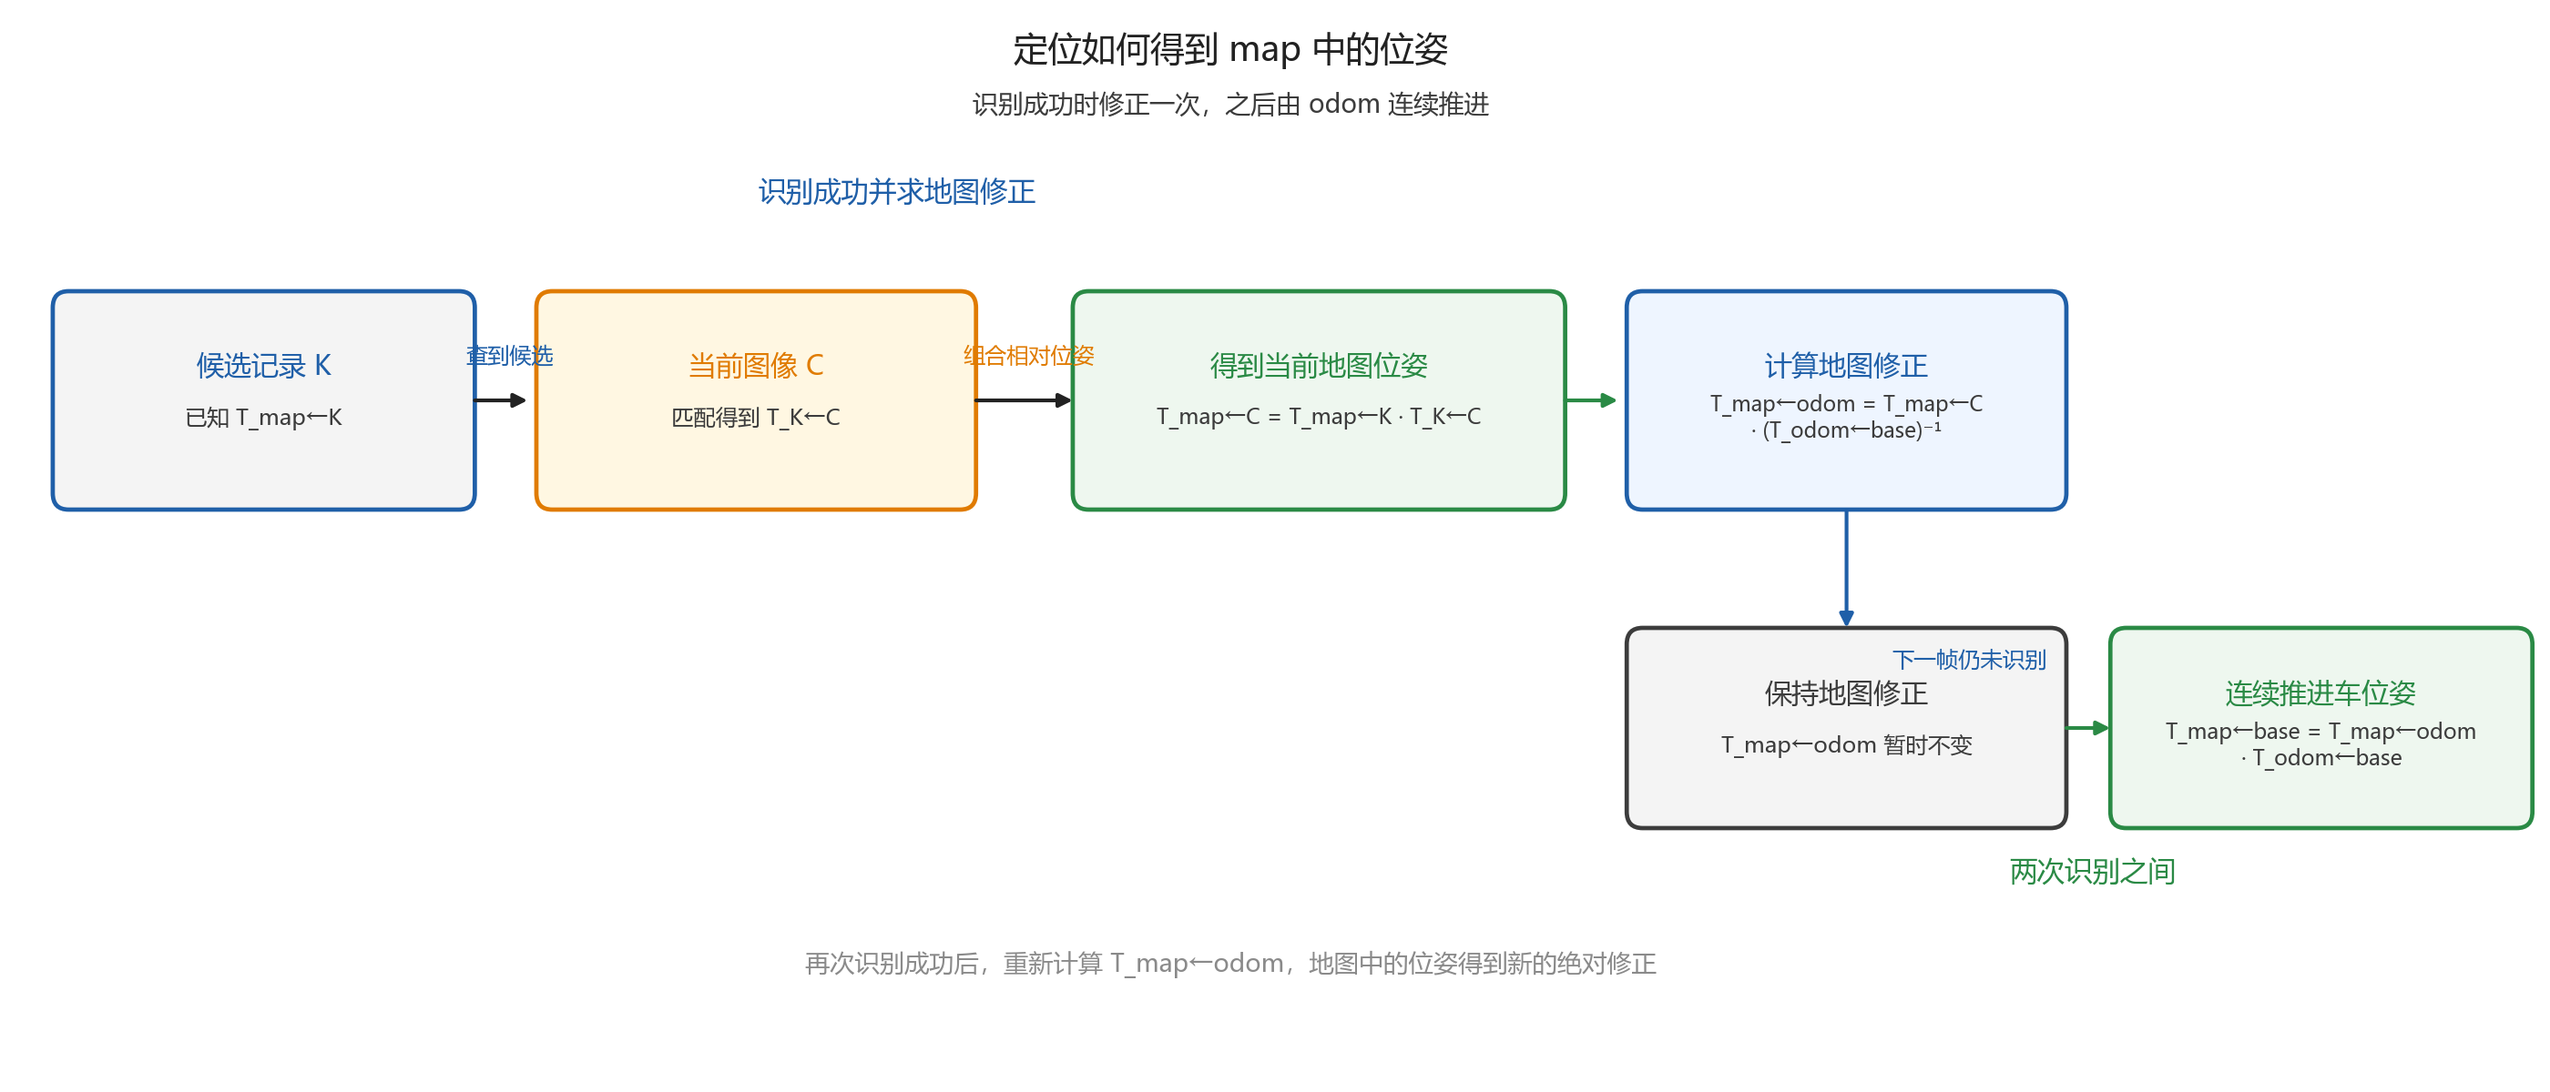
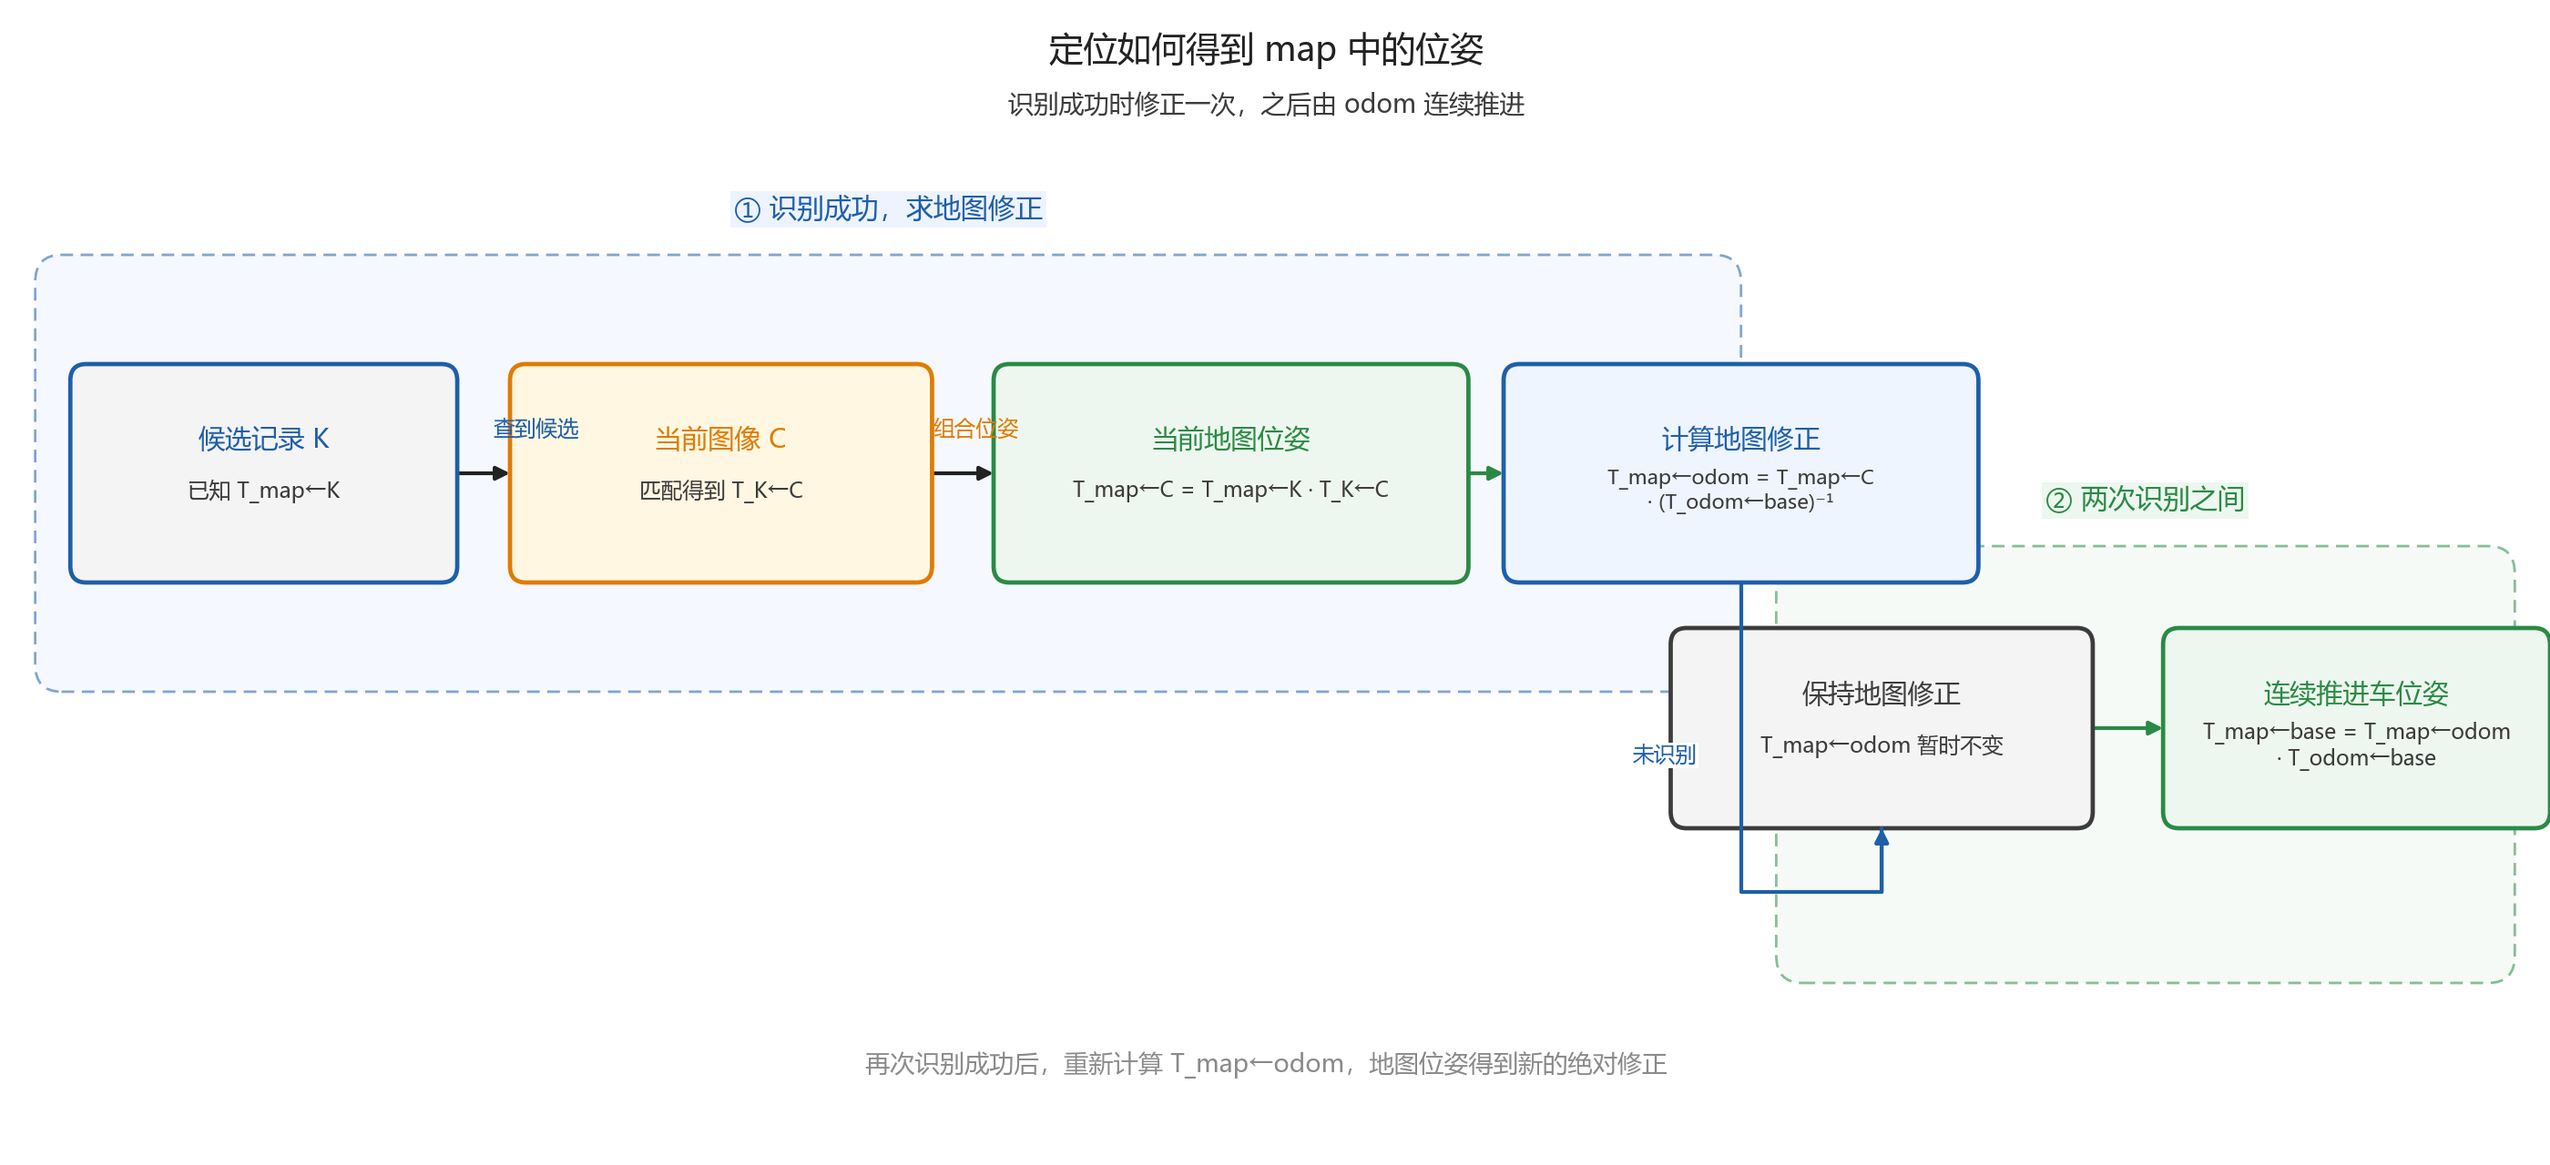
docs: improve clarity of sections 4.3 and 5–7 in visual runtime
- Redesign three figures: loop-closure-process, localization-update,
  pose-graph-model with cleaner layouts and symbol legends
- Rewrite 4.3.1 visual-dictionary explanation: lead with intuition
  before mechanism, move example inline with abstraction
- Convert 4.2 three-step projection to numbered list with bold titles
- Move localization diagram before the matrix derivation in section 5;
  add two-sentence intuition lead-in
- Fix all first-use-before-definition issues: RTAB-Map and Nav2 deferred
  to their introducing sections; overview uses generic labels
- Clarify OccupancyGrid.data coordinate mismatch paragraph
- Add Nav2 definition at first use in section 6

diff --git a/docs/06-sensors-navigation/38-visual-runtime.md b/docs/06-sensors-navigation/38-visual-runtime.md
@@ -15,11 +15,11 @@ status: complete
 
 图像、车身和场地各有自己的坐标系。坐标变换把它们接起来，使相机看到的点能够换算到场地坐标系中（第 3 节）。
 
-建图时，RTAB-Map 沿途保存图像、特征和车的位置，形成建图记录。本章把这种记录称为地点记录，再利用记录中的深度图像生成导航所需的占用栅格，即记录地面区域可通行状态的二维地图（第 4 节）。
+建图时，建图算法沿途保存图像、特征和车的位置，形成建图记录。本章把这种记录称为地点记录，再利用记录中的深度图像生成导航所需的占用栅格，即记录地面区域可通行状态的二维地图（第 4 节）。
 
-建图结束后，RTAB-Map 将当前红外图像与已有地图比较，确定车的位置和朝向（第 5 节）。
+建图结束后，建图算法将当前红外图像与已有地图比较，确定车的位置和朝向（第 5 节）。
 
-导航框架 Nav2 根据地图规划到目标点的路径（第 6 节），再沿路径计算速度并交给底盘执行（第 7 节）。
+导航框架根据地图规划到目标点的路径（第 6 节），再沿路径计算速度并交给底盘执行（第 7 节）。
 
 ![过程概要。上行从图像采集到运动融合，下行从建图与定位到底盘执行。粗框浅底为本项目编写的节点](diagrams/vision-runtime-overview.svg)
 
@@ -30,7 +30,7 @@ status: complete
 
 # 1. 采集红外图像和深度图像
 
-RealSense 驱动由左右红外图像算出深度图像，并让红外投射器逐帧交替开关。配对节点辨认每一帧的投射器状态，取无散斑的红外图像和相邻一帧的深度图像。RTAB-Map 的同步节点再把它们合成一条消息。本节依次说明深度图像从何而来、为什么要交替开关投射器，以及两幅图像怎样合成消息。
+RealSense 驱动由左右红外图像算出深度图像，并让红外投射器逐帧交替开关。配对节点辨认每一帧的投射器状态，取无散斑的红外图像和相邻一帧的深度图像。建图算法的同步节点再把它们合成一条消息。本节依次说明深度图像从何而来、为什么要交替开关投射器，以及两幅图像怎样合成消息。
 
 ## 1.1 由左右红外图像得到深度图像
 
@@ -603,11 +603,13 @@ record:
 
 占用栅格是一张固定分辨率的二维地图。每个格子对应 `map` 地面上的一小块区域，状态通常记为三种值：$0$ 表示已确认可以通行，$100$ 表示被障碍占用，$-1$ 表示还没有足够观测。每条地点记录先产生一张局部占用栅格，局部栅格带有记录拍摄时的车身位姿。RTAB-Map 再把它变换到 `map` 中，与其他记录的局部栅格叠加，形成发布在 `/map` 上的全局占用栅格。因此，地点记录是原始观测和位姿的保存单元，占用栅格是由这些记录计算出来的地图结果。
 
-投影分三步。第一步，由 2.1 的公式把每个像素和距离换成光学坐标系里的点，再经 TF 换到 `base_footprint`。距离不在 $0.20$～$3.5\,\mathrm{m}$ 内的点不用，落在车身本身所占的 $0.5\,\mathrm{m} \times 0.4\,\mathrm{m} \times 0.3\,\mathrm{m}$ 空间里的点也去掉，以免把自己的车头当成障碍。
+投影分三步：
 
-第二步按表面朝向和高度区分地面与障碍。表面法线是垂直于局部表面的方向，算法用它和竖直方向的夹角判断表面是否近似水平。若夹角不超过 $30^\circ$，且高度在 $-0.10$～$0.10\,\mathrm{m}$ 之间，就把点记为地面，所在格子记为空闲。其余高度在 $0.10$～$1.80\,\mathrm{m}$ 之间的点记为障碍，格子记为占用。高于 $1.80\,\mathrm{m}$ 的点超出本车要建立的障碍高度范围，不参与这一层地图。
+1. **换算三维点并过滤范围。** 由 2.1 的公式把每个像素和距离换成光学坐标系里的点，再经 TF 换到 `base_footprint`。距离不在 $0.20$～$3.5\,\mathrm{m}$ 内的点不用，落在车身本身所占的 $0.5\,\mathrm{m} \times 0.4\,\mathrm{m} \times 0.3\,\mathrm{m}$ 空间里的点也去掉，以免把自己的车头当成障碍。
 
-第三步补上视线经过的格子。相机到每个地面点或障碍点之间，视线经过的格子也记为空闲，因为视线能到达说明中途没有障碍。半径 $0.05\,\mathrm{m}$ 内不足 3 个邻点的孤立点当作噪声去掉。
+2. **按朝向和高度区分地面与障碍。** 表面法线是垂直于局部表面的方向，算法用它和竖直方向的夹角判断表面是否近似水平。若夹角不超过 $30^\circ$，且高度在 $-0.10$～$0.10\,\mathrm{m}$ 之间，就把点记为地面，所在格子记为空闲。其余高度在 $0.10$～$1.80\,\mathrm{m}$ 之间的点记为障碍，格子记为占用。高于 $1.80\,\mathrm{m}$ 的点超出本车要建立的障碍高度范围，不参与这一层地图。
+
+3. **补上视线经过的格子。** 相机到每个地面点或障碍点之间，视线经过的格子也记为空闲，因为视线能到达说明中途没有障碍。半径 $0.05\,\mathrm{m}$ 内不足 3 个邻点的孤立点当作噪声去掉。
 
 下图从侧面看这一归类。图中法线箭头表示表面朝向，地面、障碍和不参与本层地图的高度范围分别用不同颜色标出。贴地的一层是地面，往上到 1.80 m 是障碍，再高的不记，相机到障碍之间的地面格子标为空闲。
 
@@ -631,7 +633,7 @@ info:
 data: [ ... ]             # 每格一个数：0 空闲，100 占用，-1 未知
 ```
 
-`data` 按行存放，从格子 $(0, 0)$ 起沿 $x$ 方向写完一行 `width` 个格子，再增加 $y$。图像像素的 $(0, 0)$ 在左上角、行号向下，栅格的 $(0, 0)$ 在左下角、$y$ 向上，两种约定相反。下面用一张 4 列 3 行的栅格展示单元值怎样按行展开为 `data`。
+`data` 按行存放，从格子 $(0, 0)$ 起沿 $x$ 方向写完一行 `width` 个格子，再增加 $y$。这里有一个容易搞错的方向问题：图像像素的 $(0, 0)$ 在左上角，行号向下；而栅格的 $(0, 0)$ 在左下角，$y$ 向上。因此，`data` 里的第 0 个元素对应栅格最底部一行的最左格，而不是左上角。下图用一张 4 列 3 行的栅格说明这一对应关系——左侧按坐标显示格子，右侧展示它们在 `data` 中的排列顺序。
 
 ![占用栅格单元与 OccupancyGrid.data 的对应关系。左侧按坐标显示 4 列 3 行栅格，右侧按 y 从小到大展开数组](./assets/occupancy-grid-data.png)
 
@@ -657,12 +659,13 @@ RViz 把占用栅格和车身画在同一画面里，下图的固定坐标系为
 
 ### 4.3.1 从当前记录找到回环约束
 
-每新增一条地点记录 $R_i$，RTAB-Map 都会用它的红外图像和特征去查找可能的旧记录。查找分为“快速筛选”和“几何确认”两步。
+每新增一条地点记录 $R_i$，RTAB-Map 都会用它的红外图像和特征去查找可能的旧记录。查找分为**快速筛选**和**几何确认**两步：
 
-1. 快速筛选候选记录。为便于查找旧图像，RTAB-Map 维护一张视觉词典。词典中的每一项保存一个代表性的特征描述子和编号，相似的描述子可归到同一项。这个编号称为视觉单词。新记录进来后，系统把其中每个描述子与词典中的项比较，找到最相近的一项，再记下对应的视觉单词编号。词典会随着建图过程逐渐扩充，已有的地点记录则保存各自出现过的编号及其次数。
+1. **快速筛选候选记录。** 逐一比较每对地点记录的特征描述子效率太低。RTAB-Map 维护一张**视觉词典**来加速筛选：词典中的每一项代表一类”相似的描述子”，并分配一个整数编号，称为**视觉单词**。建立词典的过程类似聚类——描述子越相似，越可能被归入同一个编号。
 
-   例如，当前记录得到编号 `[12, 35, 35, 81]`，某条旧记录得到 `[7, 12, 35, 90]`。系统按编号查找含有 `12` 和 `35` 的旧记录，这条旧记录便成为候选，随后根据共有编号的数量和出现频率计算匹配分数。匹配可能性超过 $0.11$ 的候选进入下一步。这个分数只用于缩小查找范围，不能单独证明两条记录确实位于同一地点。
-2. 用几何关系确认候选。对每个候选，系统按 2.3 节的方法匹配特征点，用 PnP 和 RANSAC 求两条记录之间的相对位姿，再用全部匹配检查重投影误差。内点不少于 20 个时，才接受这次候选匹配，并保存两条记录的相对位姿和方差，形成一条回环约束。内点数量不足时，候选被丢弃，当前记录继续等待后续记录提供新的匹配机会。
+   每收到一条新记录，系统把其中每个描述子与词典各项比较，找到最相近的一项，记下对应编号。例如某条新记录得到编号列表 `[12, 35, 35, 81]`，某条旧记录的编号列表是 `[7, 12, 35, 90]`，两者共同出现了编号 `12` 和 `35`。系统按共有编号检索旧记录，共有编号越多、出现频率越高，匹配分数越高。匹配可能性超过 $0.11$ 的旧记录进入下一步。这个分数只用于缩小查找范围，不能单独证明两条记录来自同一地点。词典会随着建图过程逐渐扩充，已有的地点记录则持续更新各自出现过的编号及次数。
+
+2. **用几何关系确认候选。** 对每个候选，系统按 2.3 节的方法匹配特征点，用 PnP 和 RANSAC 求两条记录之间的相对位姿，再用全部匹配检查重投影误差。内点不少于 20 个时，才接受这次候选匹配，并保存两条记录的相对位姿和方差，形成一条回环约束。内点数量不足时，候选被丢弃，当前记录继续等待后续记录提供新的匹配机会。
 
 除了视觉单词检索，RTAB-Map 还会检查 `/odom` 判断为空间接近、时间相隔较久的记录。对这类记录也直接执行几何确认，成功后得到近邻约束。近邻约束和回环约束都表示两条记录之间的相对位姿，区别在于前者由里程计的空间接近关系触发，后者由图像重新认出旧地点触发。
 
@@ -706,9 +709,13 @@ $$
 
 定位的任务是根据当前图像，在已经建立的地图和地点记录中找到车所在的位置，并持续发布车在 `map` 中的位姿。切换到定位时，相机、图像配对与合成、视觉里程计和运动融合仍照常运行。RTAB-Map 读取建图时的数据库，载入地点记录，但不再写入新记录。它还用这些记录重新拼出占用栅格，发布到 `/map`。
 
-定位可以分成一次绝对修正和两次修正之间的连续推进。RTAB-Map 先按 4.3.1 节的视觉单词方法，从数据库中筛选可能对应当前图像的地点记录，再做特征匹配和几何验证。设通过验证的候选记录为 $K$，当前正在处理的图像为 $C$。
+定位可以分成**一次绝对修正**和**两次修正之间的连续推进**两个阶段：识别成功时，用当前图像与数据库中的地点记录比对，得到一次绝对的地图位姿；识别不成功时，保持上次的修正量，依靠 `/odom` 连续推进。下图先把两个阶段的数据流展示出来，后面再说明各步骤的计算。
 
-这里用 $T_{A\leftarrow B}$ 表示把点在坐标系 $B$ 中的坐标换到坐标系 $A$。候选记录在 `map` 中的车身位姿记为 $T_{\mathrm{map}\leftarrow K}$。2.3 节的特征匹配和 PnP 得到两帧之间的相对变换。把它整理成“当前车身坐标换到候选记录坐标”的形式，记为 $T_{K\leftarrow C}$，就可以直接组合出当前车身在 `map` 中的位姿：
+![定位更新过程。识别成功时由候选记录和相对位姿得到当前地图位姿，再计算 map→odom；两次识别之间保持 map→odom，用 odom 推进车身位姿](assets/localization-update.png)
+
+RTAB-Map 先按 4.3.1 节的视觉单词方法，从数据库中筛选可能对应当前图像的地点记录，再做特征匹配和几何验证。设通过验证的候选记录为 $K$，当前正在处理的图像为 $C$。
+
+这里用 $T_{A\leftarrow B}$ 表示把点在坐标系 $B$ 中的坐标换到坐标系 $A$。候选记录在 `map` 中的车身位姿记为 $T_{\mathrm{map}\leftarrow K}$。2.3 节的特征匹配和 PnP 得到两帧之间的相对变换。把它整理成”当前车身坐标换到候选记录坐标”的形式，记为 $T_{K\leftarrow C}$，就可以直接组合出当前车身在 `map` 中的位姿：
 
 $$
 T_{\mathrm{map}\leftarrow C}
@@ -729,9 +736,7 @@ T_{\mathrm{map}\leftarrow\mathrm{odom}}
 =T_{\mathrm{map}\leftarrow C}\,T_{\mathrm{odom}\leftarrow C}^{-1}.
 $$
 
-视觉匹配得到当前车身在地图中的位姿，`/odom` 给出同一时刻车身相对出发处的运动，`map→odom` 则把这两段关系接成一条坐标链。图中展示了一次成功识别以及随后依靠 `/odom` 连续推进的过程。
-
-![定位更新过程。识别成功时由候选记录和相对位姿得到当前地图位姿，再计算 map→odom；两次识别之间保持 map→odom，用 odom 推进车身位姿](assets/localization-update.png)
+视觉匹配得到当前车身在地图中的位姿，`/odom` 给出同一时刻车身相对出发处的运动，`map→odom` 则把这两段关系接成一条坐标链。
 
 两次成功识别之间，RTAB-Map 不需要每一帧都重新认出地点。它暂时保持上一时刻的 $T_{\mathrm{map}\leftarrow\mathrm{odom}}$，每当 `/odom` 更新，就按
 
@@ -765,7 +770,7 @@ pose:
 
 # 6. 规划到目标的路径
 
-定位已经给出车在地图中的位姿，建图也提供了占用栅格。占用栅格说明每个格子当前是空闲、占用还是未知，但规划和控制还要判断车身足迹能否通过，以及通过时离障碍有多近。Nav2 因此把占用栅格、车身足迹和相机当前看到的障碍整理成**代价地图**（Costmap）。第 6.1 节先说明代价怎样生成，再区分全局和局部代价地图。第 6.2 节使用全局代价地图规划路径，第 7 节的控制器使用局部代价地图计算当前速度。
+定位已经给出车在地图中的位姿，建图也提供了占用栅格。占用栅格说明每个格子当前是空闲、占用还是未知，但规划和控制还要判断车身足迹能否通过，以及通过时离障碍有多近。本车使用的导航框架是 **Nav2**（Navigation2），它是 ROS 2 生态中的标准导航栈，负责从地图规划路径和控制速度。Nav2 因此把占用栅格、车身足迹和相机当前看到的障碍整理成**代价地图**（Costmap）。第 6.1 节先说明代价怎样生成，再区分全局和局部代价地图。第 6.2 节使用全局代价地图规划路径，第 7 节的控制器使用局部代价地图计算当前速度。
 
 ## 6.1 代价地图
 
